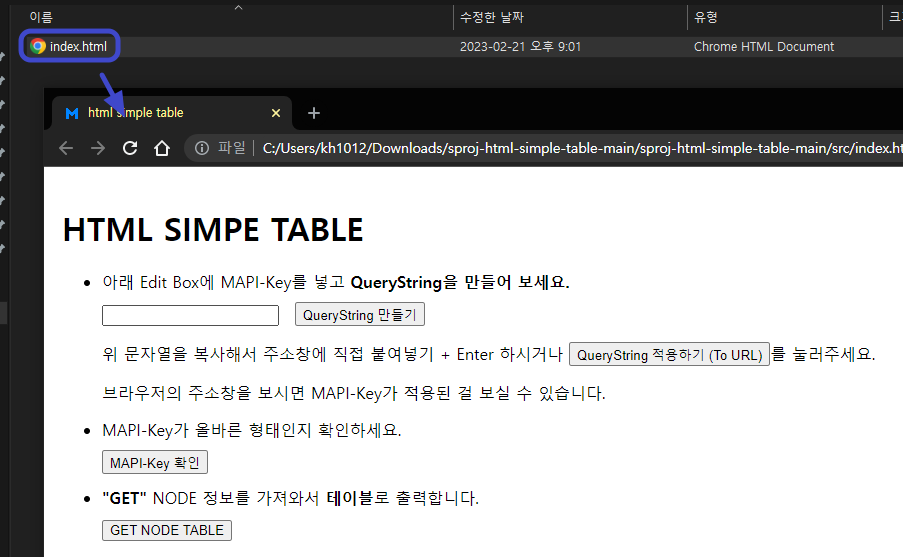
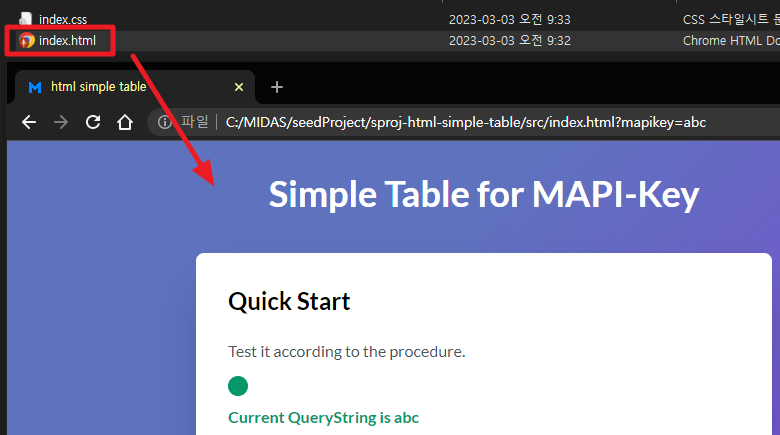
add css

diff --git a/src/index.html b/src/index.html
@@ -4,15 +4,29 @@
   <meta charset="UTF-8">
   <meta http-equiv="X-UA-Compatible" content="IE=edge">
   <meta name="viewport" content="width=device-width, initial-scale=1.0">
-  <link rel="icon" href="https://raw.githubusercontent.com/kh1012/sproj-std/main/files/favicon.ico" />
+  <link rel="icon" href="https://raw.githubusercontent.com/kh1012/sproj-std/main/files/favicon.ico">
+  <link rel="stylesheet" href="index.css">
+  <link href="https://fonts.googleapis.com/css2?family=Lato:wght@400;700&display=swap" rel="stylesheet">
+  <link href="https://fonts.googleapis.com/css2?family=Source+Code+Pro:wght@500&display=swap" rel="stylesheet">
   <title>html simple table</title>
-</head>
-<body style="padding: 10px">
   <!-- SCRIPT 동작 코드 -->
   <script type=""text/javascript">
     // API를 사용하기 위한 기본적인 변수 및 함수
     const baseUrl = 'https://api-beta.rpm.kr-dv-midasit.com:443';
     const programType = 'gen';
+
+    function checkExistQuerystring() {
+      const mapikeyQuery = getMapiKey();
+      console.log(mapikeyQuery);
+      if (mapikeyQuery === null) return;
+      const currentQueryStringDot = document.getElementById('current-querystring-dot');
+      currentQueryStringDot.style.backgroundColor = '#059669';
+      const currentQueryString = document.getElementById('current-querystring');
+      currentQueryString.innerHTML = `Current QueryString is ${mapikeyQuery}`;
+      currentQueryString.style.color = '#059669';
+      currentQueryString.style.fontWeight = '700';
+    }
+
     function getMapiKey() {
       // url에서 params를 가져오고 mapikey를 get 합니다.
       const params = new URLSearchParams(window.location.search);
@@ -24,15 +38,6 @@
       const inputValue = document.getElementById('querystring-input').value;
       const queryString = '?mapikey=' + inputValue;
       document.getElementById('querystring-output').textContent = queryString;
-    }
-
-    // 만들어진 QueryString을 주소창에 적용 시켜주는 함수
-    function queryStringToURL() {
-      const href = window.location.href;
-      if (!href.includes('?mapikey=')) {
-        window.location.href = 
-          window.location.href + document.getElementById('querystring-output').textContent;
-      }
     }
 
     // MAPI-Key가 올바른지 확인하는 함수
@@ -70,7 +75,7 @@
   
         //TABLE 기본 구조 생성, HEADER, 동적으로 생성 할 BODY 마킹
         const table = `
-        <table style="margin-top: 10px">
+        <table>
           <thead>
             <tr>
               <th>NODE</th>
@@ -113,44 +118,45 @@
       doWork();
     }
   </script>
-
-  <div>
+</head>
+<body class="body-bg" onload="checkExistQuerystring()">
+  <div class="all-wrapper">
     <!-- TITLE -->
-    <h1>HTML SIMPE TABLE</h1>
+    <header>
+      <h1 class="header-h1">Simple Table for MAPI-Key</h1>
+    </header>
 
-    <!-- EXAMPLE -->
-    <ul>
-      <li style="margin-bottom: 10px">
-        아래 Edit Box에 MAPI-Key를 넣고 <b>QueryString을 만들어 보세요.</b>
-        <div style="margin-top: 10px; margin-bottom: 10px">
-          <input type="text" id="querystring-input" />
-          <button type="button" style="margin-left: 10px" onclick="makeQueryString()">QueryString 만들기</button>
-          <pre id='querystring-output' style="margin-bottom: 10px"></pre>
-          <p>위 문자열을 복사해서 주소창에 직접 붙여넣기 + Enter 하시거나 <button type="button" onclick="queryStringToURL()">QueryString 적용하기 (To URL)</button>를 눌러주세요.</p>
-          <p>브라우저의 주소창을 보시면 MAPI-Key가 적용된 걸 보실 수 있습니다.</p>
+    <main>
+      <section>
+        <h3 class="main-sec1-h3">Quick Start</h3>
+        <p class="main-sec-p">Test it according to the procedure.</p>
+        <span id="current-querystring-dot"></span>
+        <p id="current-querystring" class="main-sec-p">Current QueryString is not exist.</p>
+      </section>
+
+      <!-- EXAMPLE -->
+      <section class="main-sec2">
+        <div class="main-sec2-wrapper">
+          <p class="main-sec-p main-purple-600">1. <b>Add MAPI-Key</b> to the Edit Box below and <b>create QueryString.</b></p>
+          <div class="main-sec2-col">
+            <input type="text" id="querystring-input" class="main-sec2-col-input" placeholder="Paste to MAPI-Key" />
+            <button type="button" onclick="makeQueryString()" class="main-sec2-col-button">Create a QueryString</button>
+          </div>
+          <pre id='querystring-output'>. . .</pre>
+          <p class="main-sec-p main-purple-600">2. <b>Copy and paste</b> the above string directly into the address bar</p>
+          <img src="./../img/copyPaste.png" />
+          <p class="main-sec-p main-purple-600 main-p-default">3. <b>Make sure the MAPI-Key</b> is in the correct form.</p>
+          <button type="button" onclick="checkMapiKey()" class="main-sec2-col-button">Verify MAPI-Key</button>
+          <pre id='status-output'>. . .</pre>
+          <p class="main-sec-p main-purple-600 main-p-default">4. Click the button below to <b>get NODE Data.</b></p>
+          <button type="button" onclick="getNodeFetch()" class="main-sec2-col-button">GET NODE</button>
+          <div id="getnode-output">. . .</div>
         </div>
-      </li>
-      <li style="margin-bottom: '10px'">
-        MAPI-Key가 올바른 형태인지 확인하세요.
-        <div style="margin-top: 10px">
-          <button type="button" onclick="checkMapiKey()">MAPI-Key 확인</button>
-          <pre id='status-output'></pre>
-        </div>
-      </li>
-      <!-- NODE 데이터를 TABLE로 출력 -->
-      <li>
-        <b>"GET"</b> NODE 정보를 가져와서 <b>테이블</b>로 출력합니다.
-        <!-- TABLE 스타일 변경 -->
-        <style>
-          table, td, th { border: 1px solid #000; border-collapse: collapse; text-align: center; padding: 5px; }
-        </style>
-        <!-- TABLE 출력 -->
-        <div style="margin-top: 10px">
-          <button type="button" onclick="getNodeFetch()">GET NODE TABLE</button>
-          <div id="getnode-output" />
-        </div>
-      </li>
-    </ul>
+      </section>
+    </main>
+
+    <footer>
+      <h3 class="footer-h3">-</h3>
+    </footer>
   </div>
-</body>
 </html>

diff --git a/src/index.css b/src/index.css
@@ -1,0 +1,179 @@
+* {
+  font-family: 'Lato', sans-serif;
+}
+
+pre {
+  font-family: 'Lato', sans-serif;
+  white-space: pre-wrap;
+  font-family: 'Source Code Pro', monospace;
+  font-feature-settings: "tnum";
+  font-variant-numeric: tabular-nums;
+}
+
+body {
+  background-color: #9921e8;
+  background-image: linear-gradient(315deg, #9921e8 0%, #5f72be 74%);
+  width: 100%;
+  min-height: 100vh;
+  margin: 0;
+  display: flex;
+}
+
+.all-wrapper {
+  margin: auto;
+  word-break: break-all;
+}
+
+header {
+  margin-left: auto;
+  margin-right: auto;
+  max-width: 32rem;
+  height: auto;
+}
+
+.header-h1 {
+  margin: 0;
+  padding-top: 2rem;
+  color: #ffffff;
+  font-size: 2.25rem;
+  line-height: 2.5rem;
+  font-weight: 700;
+  text-align: center;
+}
+
+main {
+  padding: 2rem;
+  margin-left: auto;
+  margin-right: auto;
+  margin-top: 2.5rem;
+  margin-bottom: 2.5rem;
+  background-color: #ffffff;
+  max-width: 32rem;
+  border-radius: 0.5rem;
+  box-shadow: 0 25px 50px -12px rgba(0, 0, 0, 0.25);
+}
+
+.main-p-default {
+  padding-top: 0.5em;
+  padding-bottom: 0.5em;
+}
+
+.main-sec-p {
+  margin-block: 0.5em;
+  color: #4B5563;
+}
+
+.main-purple-600 {
+  color: #7C3AED;
+}
+
+.main-sec1-h3 {
+  font-size: 1.5rem;
+  line-height: 2rem;
+  font-weight: 700;
+  margin-top: 0;
+}
+
+.main-sec1-cur-qs {
+  align-items: center;
+}
+
+.main-sec2 {
+  margin-top: 10px;
+}
+
+.main-sec2-wrapper {
+  display: flex;
+  flex-direction: column;
+}
+
+.main-sec2-col {
+  display: flex;
+  justify-content: space-between;
+  margin-top: 0.5em;
+}
+
+.main-sec2-col-input {
+  padding: 0.75rem;
+  background-color: #E5E7EB;
+  transition-property: background-color, border-color, color, fill, stroke, opacity, box-shadow, transform;
+  transition-duration: 500ms;
+  color: #818da0;
+  border-radius: 0.25rem;
+  border-bottom-width: 4px;
+  border-color: #D1D5DB;
+  border: 1px solid;
+  box-shadow: 0 5px 7px -1px rgba(112, 112, 112, 0.1), 0 2px 4px -1px rgba(150, 150, 150, 0.05);
+  width: 60%;
+}
+
+.main-sec2-col-input:focus {
+  outline: 0;
+  background-color: #ffffff;
+  border-color: #7C3AED;
+  box-shadow: 0 10px 15px -3px rgba(0, 0, 0, 0.1), 0 4px 6px -2px rgba(0, 0, 0, 0.05);
+}
+
+.main-sec2-col-button {
+  padding-top: 0.5rem;
+  padding-bottom: 0.5rem;
+  background-color: #7C3AED;
+  transition-property: background-color, border-color, color, fill, stroke, opacity, box-shadow, transform;
+  transition-duration: 200ms;
+  color: #ffffff;
+  font-weight: 700;
+  border-radius: 0.25rem;
+  box-shadow: 0 10px 15px -3px rgba(0, 0, 0, 0.1), 0 4px 6px -2px rgba(0, 0, 0, 0.05);
+  border: 1px solid #4C1D95;
+  cursor: pointer;
+  width: 30%;
+}
+
+.main-sec2-col-button:hover {
+  background-color: #6D28D9;
+  box-shadow: 0 20px 25px -5px rgba(0, 0, 0, 0.1), 0 10px 10px -5px rgba(0, 0, 0, 0.04);
+}
+
+footer {
+  color: #ffffff;
+  font-size: 2.25rem;
+  line-height: 2.5rem;
+  font-weight: 700;
+  text-align: center;
+}
+
+#current-querystring-dot {
+  margin-top: 0.5em;
+  height: 1.25rem;
+  width: 1.25rem;
+  background-color: #DC2626;
+  border-radius: 50%;
+  display: inline-block;
+}
+
+#current-querystring {
+  color: #DC2626
+}
+
+#getnode-output {
+  margin-top: 1rem;
+  font-family: 'Lato', sans-serif;
+  font-family: 'Source Code Pro', monospace;
+  font-feature-settings: "tnum";
+  font-variant-numeric: tabular-nums;
+}
+
+table, td, th {
+  border: 1px solid #000;
+  border-collapse: collapse;
+  text-align: center;
+}
+
+td, th {
+  min-width: 4rem;
+  padding: 1rem;
+}
+
+th {
+  background-color: #E5E7EB;
+}

diff --git a/README-us.md b/README-us.md
@@ -1,0 +1,51 @@
+# :zap: Getting Stated With HTML Simple Table
+
+MIDAS API 중 "GET NODE"를 통해 API를 경험할 수 있는 저장소 입니다.\
+HTML Table 태그를 이용해서 DOM Element의 innerHTML을 치환하여 브라우져 UI에 API로부터 받은 데이터를 출력하는 예제 입니다.
+<br /><br />
+
+## Prerequisite
+
+해당 저장소를 사용하려면 [Getting Started With HTML](https://github.com/kh1012/sproj-prerequisite/tree/main/html)에 포함된 환경이 모두 구성되어 있어야 합니다. \
+가능한 안내 된 프로그램을 다운로드 받으시고 최신 버전을 사용하는 것이 좋습니다. `LTS`
+<br /><br />
+
+## Quick Start
+
+해당 저장소를 사용하기 위한 준비 과정을 안내합니다.
+<br /><br />
+
+### 자신의 PC에 저장소 다운로드 받기
+<br />
+
+- 현 페이지 우측 상단에 `Code` 버튼을 눌러 `Download ZIP`을 클릭하여 저장소를 다운로드 받습니다.\
+  <br />
+  <img src="./img/download.png" width="400px" />
+- 다운로드가 완료되면 원하는 경로에 압축을 해제 합니다.\
+  <br />
+  ![img](./img/releasezip.png)
+<br /><br />
+
+### 바로 실행 해보기
+<br />
+
+- 해제한 폴더를 열어 "./src/index.html"을 실행 해주세요.\
+  <br />
+  <img src="./img/openhtml.png" width="600px" />
+<br /><br />
+
+### 주요 코드 설명
+<br />
+
+- /src 폴더 내에 `index.html`에 저장소의 모든 내용이 담겨 있습니다.
+  - 내부의 `<body>`는 2가지로 구분 되어 있습니다.
+    - 실제 HTML의 동작을 정의 해주는 javascript 부분이 있습니다.
+      - 주요한 변수 및 함수는 다음과 같습니다.
+      - `baseUrl`: MIDAS API Server의 Url 입니다.
+      - function `getMapiKey()`: URL QueryString으로부터 MAPI-Key를 가져오는 함수 입니다.
+      - function `getNodeFetch()`: MIDAS API를 통해 연결된 제품의 Node 정보를 가져 옵니다.
+        - 함수 내부에서 HTML의 Table 태그인 `<table>, <thead>, <tbody>, <tr>, <th>, <td>`를 사용하고 있습니다. 더 많은 정보는 [MDN-TABLE](https://developer.mozilla.org/ko/docs/Web/HTML/Element/table) 이곳을 확인해 보세요!
+    - 웹 페이지에 표현을 담당하는 HTML([MDN-HTML](https://developer.mozilla.org/ko/docs/Web/HTML)) 부분이 존재합니다.
+      - ul, li 태그를 활용하여 리스트로 표현되어 있습니다.
+        - [MDN-ul](https://developer.mozilla.org/ko/docs/Web/HTML/Element/ul) 에 대해 확인해 보세요!
+        - [MDN-li](https://developer.mozilla.org/ko/docs/Web/HTML/Element/li) 에 대해 확인해 보세요!
